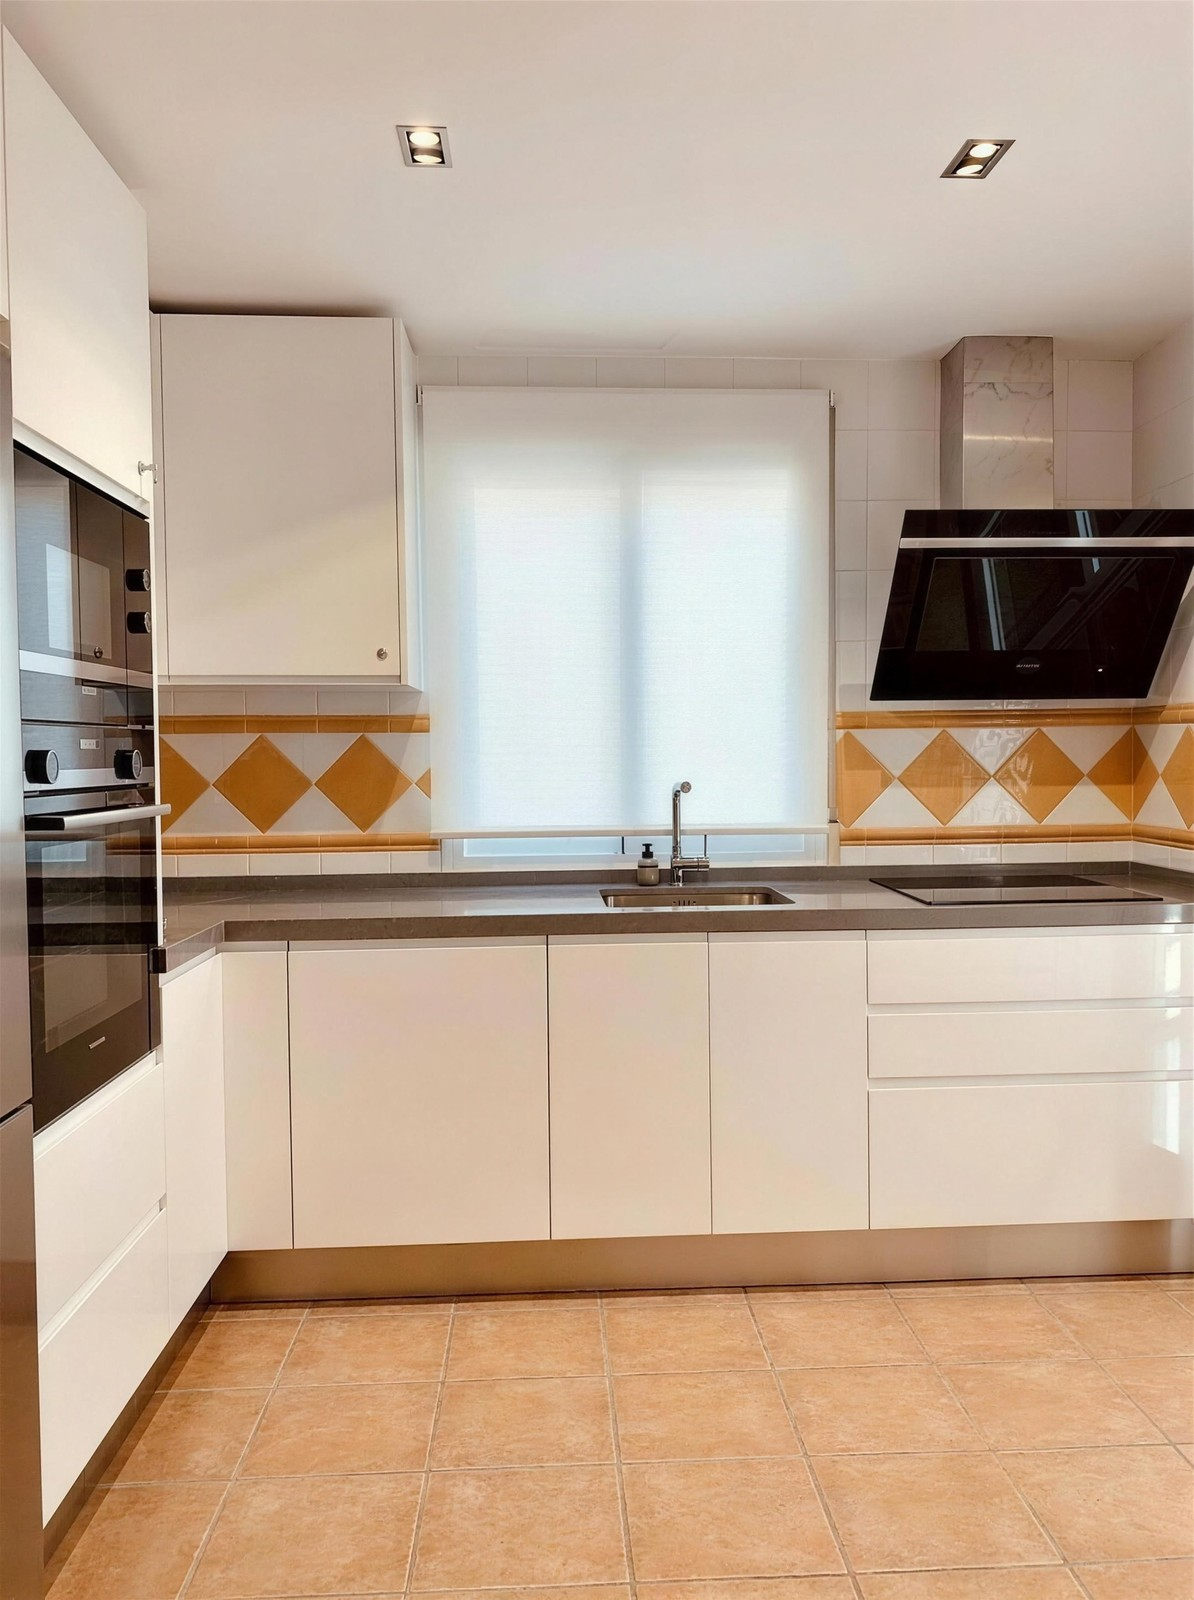
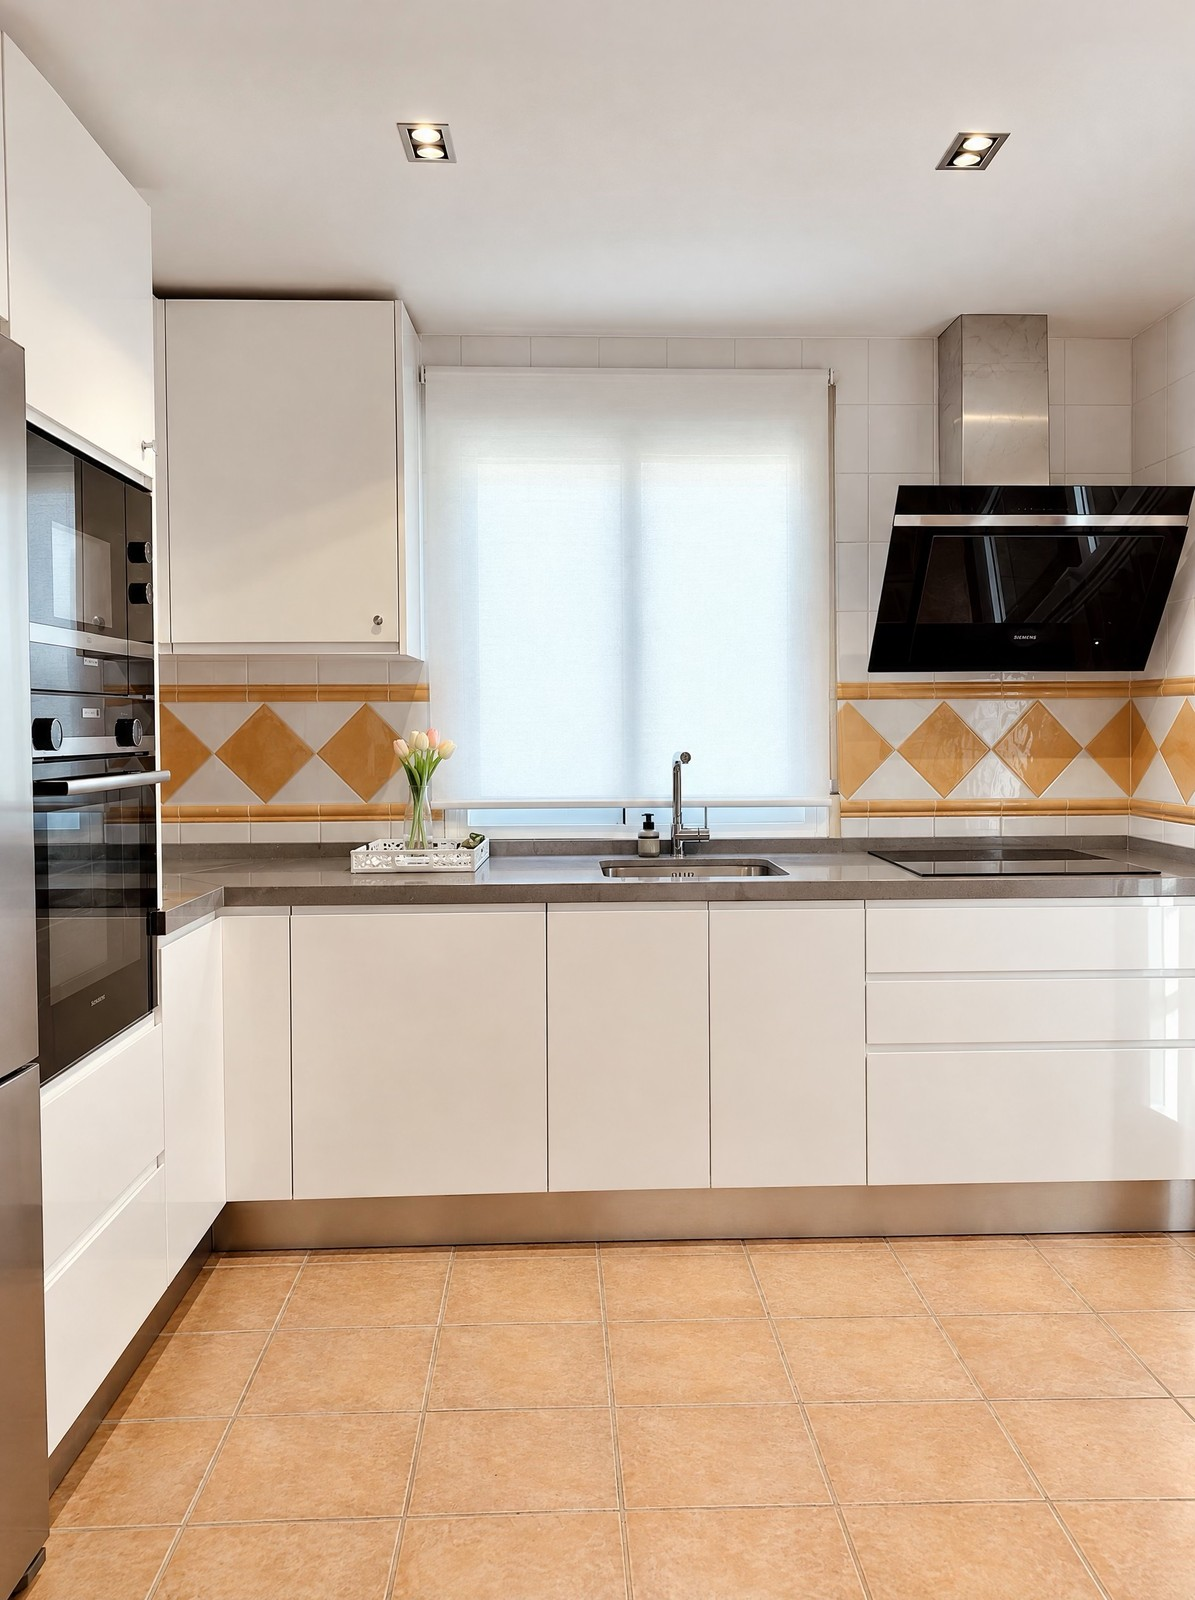
Cocina Thalassa: encuadre completo (nevera + extractor) en alta resolución
apt-vt-gallery-19.jpg mostraba un recorte que dejaba fuera la nevera y
parte del extractor. Recompuesta con IA a partir de dos fotos reales de
la misma cocina (el recorte en alta ya publicado + la foto de referencia
con el encuadre completo que envió el usuario), sin inventar mobiliario
ni azulejos: mismos muebles, misma campana Siemens, mismo suelo. GALLERY_V
a 15 para forzar refresco de caché.

diff --git a/docs/contacto.html b/docs/contacto.html
@@ -118,7 +118,7 @@
     } catch (e) { console.warn('prices.json fetch failed; using fallback', e); }
 
     for (const file of COMPONENT_FILES) {
-      const res = await fetch(file + '?cv=ca28725958');
+      const res = await fetch(file + '?cv=ebda0b4064');
       if (!res.ok) throw new Error(`Failed to load ${file}: ${res.status}`);
       const code = await res.text();
       // eslint-disable-next-line no-eval

diff --git a/docs/index.html b/docs/index.html
@@ -275,7 +275,7 @@
     } catch (e) { console.warn('prices.json fetch failed; using fallback', e); }
 
     for (const file of COMPONENT_FILES) {
-      const res = await fetch(file + '?cv=ca28725958');
+      const res = await fetch(file + '?cv=ebda0b4064');
       if (!res.ok) throw new Error(`Failed to load ${file}: ${res.status}`);
       const code = await res.text();
       // eslint-disable-next-line no-eval

diff --git a/docs/nosotros.html b/docs/nosotros.html
@@ -212,7 +212,7 @@
     } catch (e) { console.warn('prices.json fetch failed; using fallback', e); }
 
     for (const file of COMPONENT_FILES) {
-      const res = await fetch(file + '?cv=ca28725958');
+      const res = await fetch(file + '?cv=ebda0b4064');
       if (!res.ok) throw new Error(`Failed to load ${file}: ${res.status}`);
       const code = await res.text();
       // eslint-disable-next-line no-eval

diff --git a/docs/noticias.html b/docs/noticias.html
@@ -131,7 +131,7 @@
     } catch (e) { console.warn('prices.json fetch failed; using fallback', e); }
 
     for (const file of COMPONENT_FILES) {
-      const res = await fetch(file + '?cv=ca28725958');
+      const res = await fetch(file + '?cv=ebda0b4064');
       if (!res.ok) throw new Error(`Failed to load ${file}: ${res.status}`);
       const code = await res.text();
       // eslint-disable-next-line no-eval

diff --git a/docs/about.html b/docs/about.html
@@ -98,7 +98,7 @@
     } catch (e) { console.warn('prices.json fetch failed; using fallback', e); }
 
     for (const file of COMPONENT_FILES) {
-      const res = await fetch(file + '?cv=ca28725958');
+      const res = await fetch(file + '?cv=ebda0b4064');
       if (!res.ok) throw new Error(`Failed to load ${file}: ${res.status}`);
       const code = await res.text();
       // eslint-disable-next-line no-eval

diff --git a/docs/contact.html b/docs/contact.html
@@ -89,7 +89,7 @@
     } catch (e) { console.warn('prices.json fetch failed; using fallback', e); }
 
     for (const file of COMPONENT_FILES) {
-      const res = await fetch(file + '?cv=ca28725958');
+      const res = await fetch(file + '?cv=ebda0b4064');
       if (!res.ok) throw new Error(`Failed to load ${file}: ${res.status}`);
       const code = await res.text();
       // eslint-disable-next-line no-eval

diff --git a/docs/cookies.html b/docs/cookies.html
@@ -84,7 +84,7 @@
     } catch (e) { console.warn('prices.json fetch failed; using fallback', e); }
 
     for (const file of COMPONENT_FILES) {
-      const res = await fetch(file + '?cv=ca28725958');
+      const res = await fetch(file + '?cv=ebda0b4064');
       if (!res.ok) throw new Error(`Failed to load ${file}: ${res.status}`);
       const code = await res.text();
       // eslint-disable-next-line no-eval

diff --git a/docs/empresas.html b/docs/empresas.html
@@ -92,7 +92,7 @@
     } catch (e) { console.warn('prices.json fetch failed; using fallback', e); }
 
     for (const file of COMPONENT_FILES) {
-      const res = await fetch(file + '?cv=ca28725958');
+      const res = await fetch(file + '?cv=ebda0b4064');
       if (!res.ok) throw new Error(`Failed to load ${file}: ${res.status}`);
       const code = await res.text();
       // eslint-disable-next-line no-eval

diff --git a/docs/escribir-opinion.html b/docs/escribir-opinion.html
@@ -83,7 +83,7 @@
     } catch (e) { console.warn('prices.json fetch failed; using fallback', e); }
 
     for (const file of COMPONENT_FILES) {
-      const res = await fetch(file + '?cv=ca28725958');
+      const res = await fetch(file + '?cv=ebda0b4064');
       if (!res.ok) throw new Error(`Failed to load ${file}: ${res.status}`);
       const code = await res.text();
       // eslint-disable-next-line no-eval

diff --git a/docs/letrero-bienvenida.html b/docs/letrero-bienvenida.html
@@ -60,7 +60,7 @@
     } catch (e) { console.warn('prices.json fetch failed; using fallback', e); }
 
     for (const file of COMPONENT_FILES) {
-      const res = await fetch(file + '?cv=ca28725958');
+      const res = await fetch(file + '?cv=ebda0b4064');
       if (!res.ok) throw new Error(`Failed to load ${file}: ${res.status}`);
       const code = await res.text();
       // eslint-disable-next-line no-eval

diff --git a/docs/mapa.html b/docs/mapa.html
@@ -81,7 +81,7 @@
     } catch (e) { console.warn('prices.json fetch failed; using fallback', e); }
 
     for (const file of COMPONENT_FILES) {
-      const res = await fetch(file + '?cv=ca28725958');
+      const res = await fetch(file + '?cv=ebda0b4064');
       if (!res.ok) throw new Error(`Failed to load ${file}: ${res.status}`);
       const code = await res.text();
       // eslint-disable-next-line no-eval

diff --git a/docs/normas.html b/docs/normas.html
@@ -97,7 +97,7 @@
     } catch (e) { console.warn('prices.json fetch failed; using fallback', e); }
 
     for (const file of COMPONENT_FILES) {
-      const res = await fetch(file + '?cv=ca28725958');
+      const res = await fetch(file + '?cv=ebda0b4064');
       if (!res.ok) throw new Error(`Failed to load ${file}: ${res.status}`);
       const code = await res.text();
       // eslint-disable-next-line no-eval
